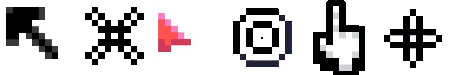
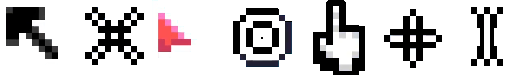
Click on text box to set the index of the cursor

diff --git a/ExplorerOpenGL/Model/Sprites/TextinputBox.cs b/ExplorerOpenGL/Model/Sprites/TextinputBox.cs
@@ -4,6 +4,7 @@ using Microsoft.Xna.Framework.Graphics;
 using Microsoft.Xna.Framework.Input;
 using System;
 using System.Collections.Generic;
+using System.Diagnostics;
 using System.Linq;
 using System.Text;
 
@@ -37,6 +38,8 @@ namespace ExplorerOpenGL.Model.Sprites
         public TextinputBox(Texture2D texture, SpriteFont SpriteFont, KeyboardUtils KeyboardUtils, bool eraseWhenUnfocused)
             :base(texture)
         {
+            MouseOvered += OnMouseOver;
+            MouseLeft += OnMouseLeft;
             DoEraseWhenUnfocused = eraseWhenUnfocused; 
             cursorIndex = 0;
             cursorOpacity = 1;
@@ -57,7 +60,17 @@ namespace ExplorerOpenGL.Model.Sprites
             inUse = azerty;
             keyboardUtils.KeyPressed += ArrowKeyPressed;
         }
-        
+
+        private void OnMouseOver(object sender, MousePointer mousePointer, Controler controler)
+        {
+            throw new NotImplementedException();
+        }
+
+        private void OnMouseLeft(object sender, MousePointer mousePointer, Controler controler)
+        {
+            throw new NotImplementedException();
+        }
+
         public void Clear()
         {
             inputText.Clear();
@@ -170,13 +183,21 @@ namespace ExplorerOpenGL.Model.Sprites
                         ComputeIndexCurrentToDraw();
                     }
                 }
-
+                CheckSubstring(); 
                 cursorPosition = new Vector2(spriteFont.MeasureString(inputText.ToString().Substring(indexStartDrawing, viewChar)).X - 3, -1) + Position; 
             }
             else
                 cursorOpacity = 0; 
 
             base.Update(gameTime, sprites, controler);
+        }
+
+        private void CheckSubstring()
+        {
+            while (indexStartDrawing + viewChar > inputText.Length)
+                viewChar--;
+            while (indexStartDrawing + indexEndDrawing > inputText.Length)
+                indexEndDrawing--;
         }
 
         public override void Draw(SpriteBatch spriteBatch)
@@ -187,9 +208,14 @@ namespace ExplorerOpenGL.Model.Sprites
             spriteBatch.DrawString(spriteFont, inputText.ToString().Substring(indexStartDrawing, indexEndDrawing), Position, Color.White, 0f, Vector2.Zero, 1f, SpriteEffects.None, layerDepth - .01f);
         }
 
-        public void OnMouseClick(object sender, List<Sprite> sprites, Controler controler)
+        public void OnMouseClick(object sender, MousePointer mousePointer, Controler controler, Vector2 clickPosition)
         {
-            Focus(sprites.Where(s => s is TextinputBox).ToList());
+            if (IsFocused)
+            {
+                SetCursor(clickPosition);
+                return; 
+            }
+            Focus(controler);
         }
 
         public string Validate()
@@ -200,6 +226,16 @@ namespace ExplorerOpenGL.Model.Sprites
             Clear();
             Validated?.Invoke(output.Trim(), this);
             return output;
+        }
+
+        public void SetCursor(Vector2 position)
+        {
+            int index = 0;
+            while ((index + indexStartDrawing < inputText.Length) && (spriteFont.MeasureString(inputText.ToString().Substring(indexStartDrawing, index)).X < position.X))
+            {
+                index++;
+            }
+            cursorIndex = index + indexStartDrawing;
         }
 
         public void MoveCursor(int i)
@@ -300,13 +336,9 @@ namespace ExplorerOpenGL.Model.Sprites
             }
         }
 
-        public void Focus(List<Sprite> focusables)
+        public void Focus(Controler controler)
         {
-            foreach (TextinputBox t in focusables)
-            {
-                if(t != this)
-                    t.UnFocus(); 
-            }
+            controler.UnFocusAll(); 
             IsFocused = true;
             Opacity = 1f; 
         }
@@ -325,11 +357,11 @@ namespace ExplorerOpenGL.Model.Sprites
             }
         }
 
-        public bool ToggleFocus(List<Sprite> sprites, bool validate = false)
+        public bool ToggleFocus(Controler controler, bool validate = false)
         {
             if (!IsFocused)
             {
-                Focus(sprites);
+                Focus(controler);
             }
             else if (IsFocused)
             {
@@ -357,6 +389,7 @@ namespace ExplorerOpenGL.Model.Sprites
         }
 
     }
+
     public enum KeyAlterer
     {
         None = 0,

diff --git a/ExplorerOpenGL/Model/Sprites/Sprite.cs b/ExplorerOpenGL/Model/Sprites/Sprite.cs
@@ -30,13 +30,13 @@ namespace ExplorerOpenGL.Model.Sprites
         public float Opacity { get; set; }
         public bool IsHUD { get; set; }
 
-        public delegate void MouseOverEventHandler(object sender, List<Sprite> sprites, Controler controler);
+        public delegate void MouseOverEventHandler(object sender, MousePointer mousePointer, Controler controler);
         public event MouseOverEventHandler MouseOvered;
 
-        public delegate void MouseLeaveEventHandler(object sender, List<Sprite> sprites, Controler controler);
+        public delegate void MouseLeaveEventHandler(object sender, MousePointer mousePointer, Controler controler);
         public event MouseLeaveEventHandler MouseLeft;
 
-        public delegate void MouseClickEventHandler(object sender, List<Sprite> sprites, Controler controler);
+        public delegate void MouseClickEventHandler(object sender, MousePointer mousePointer, Controler controler, Vector2 clickPosition);
         public event MouseClickEventHandler MouseClicked;
 
         protected bool isClicked;
@@ -67,6 +67,7 @@ namespace ExplorerOpenGL.Model.Sprites
 
         private void CheckMouseEvent(List<Sprite> sprites, Controler controler)
         {
+            MousePointer mousePointer = controler.MousePointer; 
             if (this.HitBox.Intersects(controler.MousePointer.HitBox) && !this.IsHUD)
             {
                 if (!isOver)
@@ -78,7 +79,8 @@ namespace ExplorerOpenGL.Model.Sprites
                     isClicked = true;
                     if (controler.MousePointer.currentMouseState.LeftButton == ButtonState.Released)
                     {
-                        OnMouseClick(sprites, controler);
+                        Vector2 ClickPosition = new Vector2(mousePointer.Position.X - Position.X - origin.X / 2, mousePointer.Position.Y - Position.Y - origin.Y / 2);
+                        OnMouseClick(sprites, controler, ClickPosition);
                     }
                 }
                 if (controler.MousePointer.currentMouseState.LeftButton == ButtonState.Released)
@@ -97,7 +99,8 @@ namespace ExplorerOpenGL.Model.Sprites
                     isClicked = true;
                     if (controler.MousePointer.currentMouseState.LeftButton == ButtonState.Released)
                     {
-                        OnMouseClick(sprites, controler);
+                        Vector2 ClickPosition = new Vector2(mousePointer.InWindowPosition.X - Position.X - origin.X / 2, mousePointer.InWindowPosition.Y - Position.Y - origin.Y / 2);
+                        OnMouseClick(sprites, controler, ClickPosition);
                     }
                 }
                 if (controler.MousePointer.currentMouseState.LeftButton == ButtonState.Released)
@@ -118,17 +121,17 @@ namespace ExplorerOpenGL.Model.Sprites
 
         private void OnMouseOver(List<Sprite> sprites, Controler controler)
         {
-            MouseOvered?.Invoke(this, sprites, controler);
+            MouseOvered?.Invoke(this, controler.MousePointer, controler);
         }
 
         private void OnMouseLeave(List<Sprite> sprites, Controler controler)
         {
-            MouseLeft?.Invoke(this, sprites, controler);
+            MouseLeft?.Invoke(this, controler.MousePointer, controler);
         }
 
-        private void OnMouseClick(List<Sprite> sprites, Controler controler)
+        private void OnMouseClick(List<Sprite> sprites, Controler controler, Vector2 clickPosition)
         {
-            MouseClicked?.Invoke(this, sprites, controler);
+            MouseClicked?.Invoke(this, controler.MousePointer, controler, clickPosition);
         }
 
         public virtual void Draw(SpriteBatch spriteBatch)

diff --git a/ExplorerOpenGL/Model/Sprites/Button.cs b/ExplorerOpenGL/Model/Sprites/Button.cs
@@ -50,22 +50,22 @@ namespace ExplorerOpenGL.Model.Sprites
             base.Update(gameTime, sprites, controler);
         }
 
-        private void OnMouseOver(object sender, List<Sprite> sprites, Controler controler)
+        private void OnMouseOver(object sender, MousePointer mousePointer, Controler controler)
         {
             isMouseOver = true;
             controler.MousePointer.SourceRectangle = new Rectangle(300, 0, 75, 75);
             controler.DebugManager.AddEvent("Over"); 
         }
-        private void OnMouseLeft(object sender, List<Sprite> sprites, Controler controler)
+        private void OnMouseLeft(object sender, MousePointer mousePointer, Controler controler)
         {
             isMouseOver = false;
             controler.MousePointer.SourceRectangle = new Rectangle(0, 0, 75, 75);
 
             controler.DebugManager.AddEvent("Leave");
         }
-        private void OnMouseClick(object sender, List<Sprite> sprites, Controler controler)
+        private void OnMouseClick(object sender, MousePointer mousePointer, Controler controler, Vector2 clickPosition)
         {
-            controler.DebugManager.AddEvent("Click");
+            controler.DebugManager.AddEvent("Click at " + clickPosition.ToString());
         }
         public override void Draw(SpriteBatch spriteBatch)
         {

diff --git a/ExplorerOpenGL/Controlers/Controler.cs b/ExplorerOpenGL/Controlers/Controler.cs
@@ -112,11 +112,19 @@ namespace ExplorerOpenGL.Controlers
             _sprites.Add(sprite); 
         }
 
+        public void UnFocusAll()
+        {
+            foreach (TextinputBox t in _sprites.Where(e => e is TextinputBox))
+            {
+                t.UnFocus();
+            }
+        }
+
         private void OnKeyPressed(Keys[] keys, KeyboardUtils keyboardUtils)
         {
             if (KeyboardUtils.Contains(keys, Keys.Enter))
             {
-                TerminalTexintput.ToggleFocus(_sprites.Where(s => s is TextinputBox).ToList(), true); 
+                TerminalTexintput.ToggleFocus(this, true); 
             }
             if (KeyboardUtils.Contains(keys, Keys.OemQuestion))
             {
@@ -158,7 +166,7 @@ namespace ExplorerOpenGL.Controlers
             if (e.Character == '/' && !TerminalTexintput.IsFocused)
             {
                 TerminalTexintput.Clear(); 
-                TerminalTexintput.Focus(_sprites.Where(s => s is TextinputBox).ToList());
+                TerminalTexintput.Focus(this);
             }
             TextinputBox itemFocus = (TextinputBox)_sprites.Where(s => s is TextinputBox).FirstOrDefault(t => (t as TextinputBox).IsFocused);
             if (itemFocus == null)
